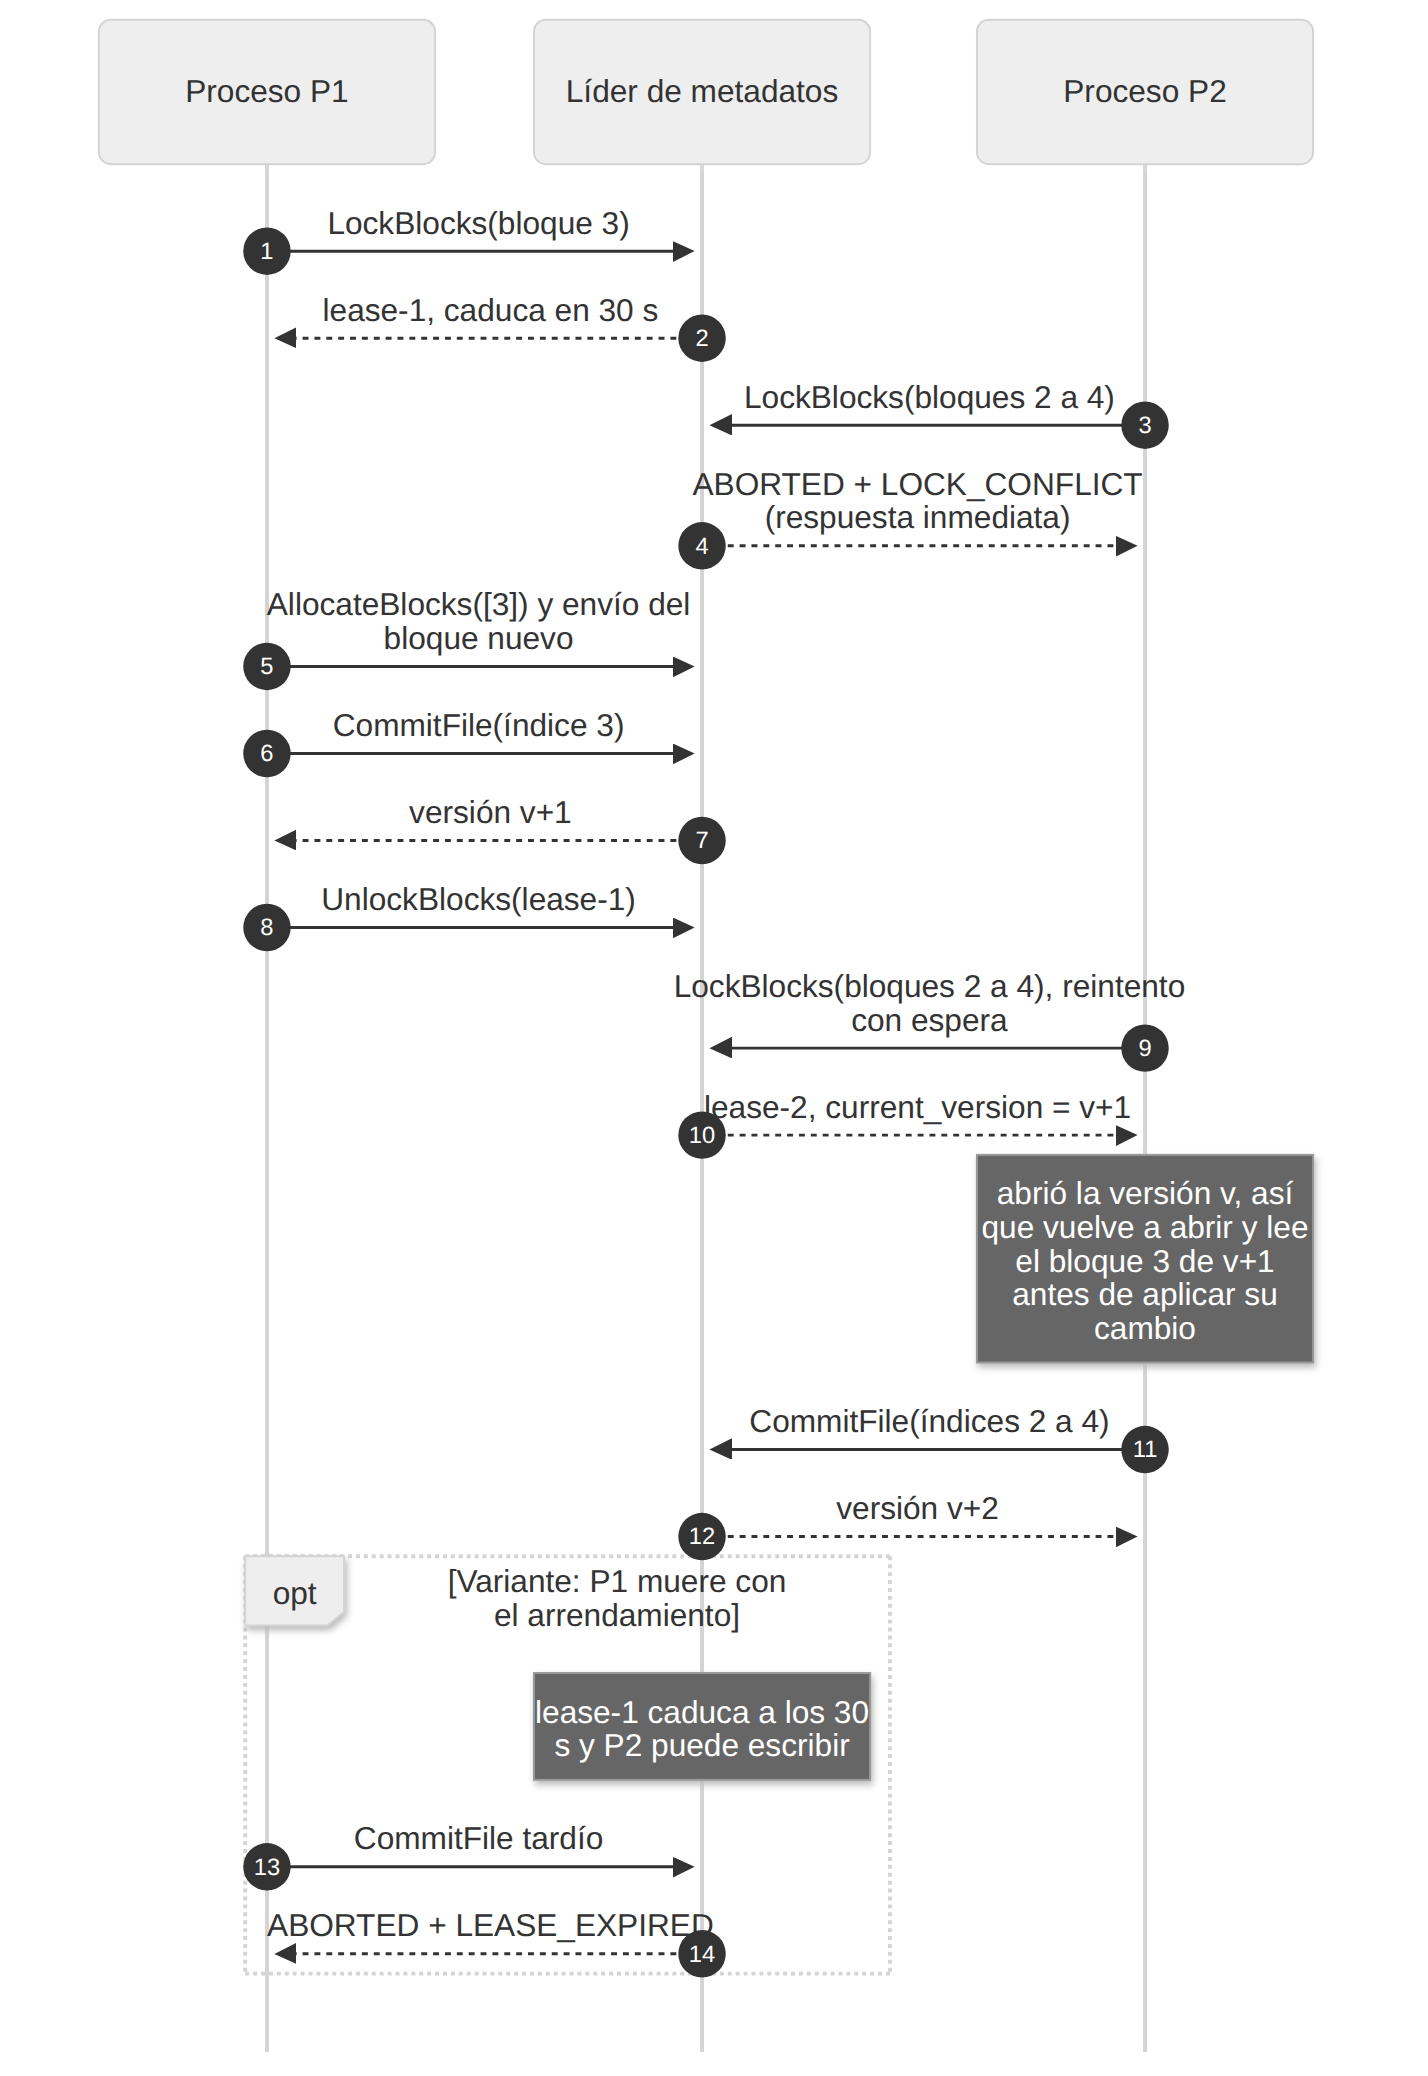
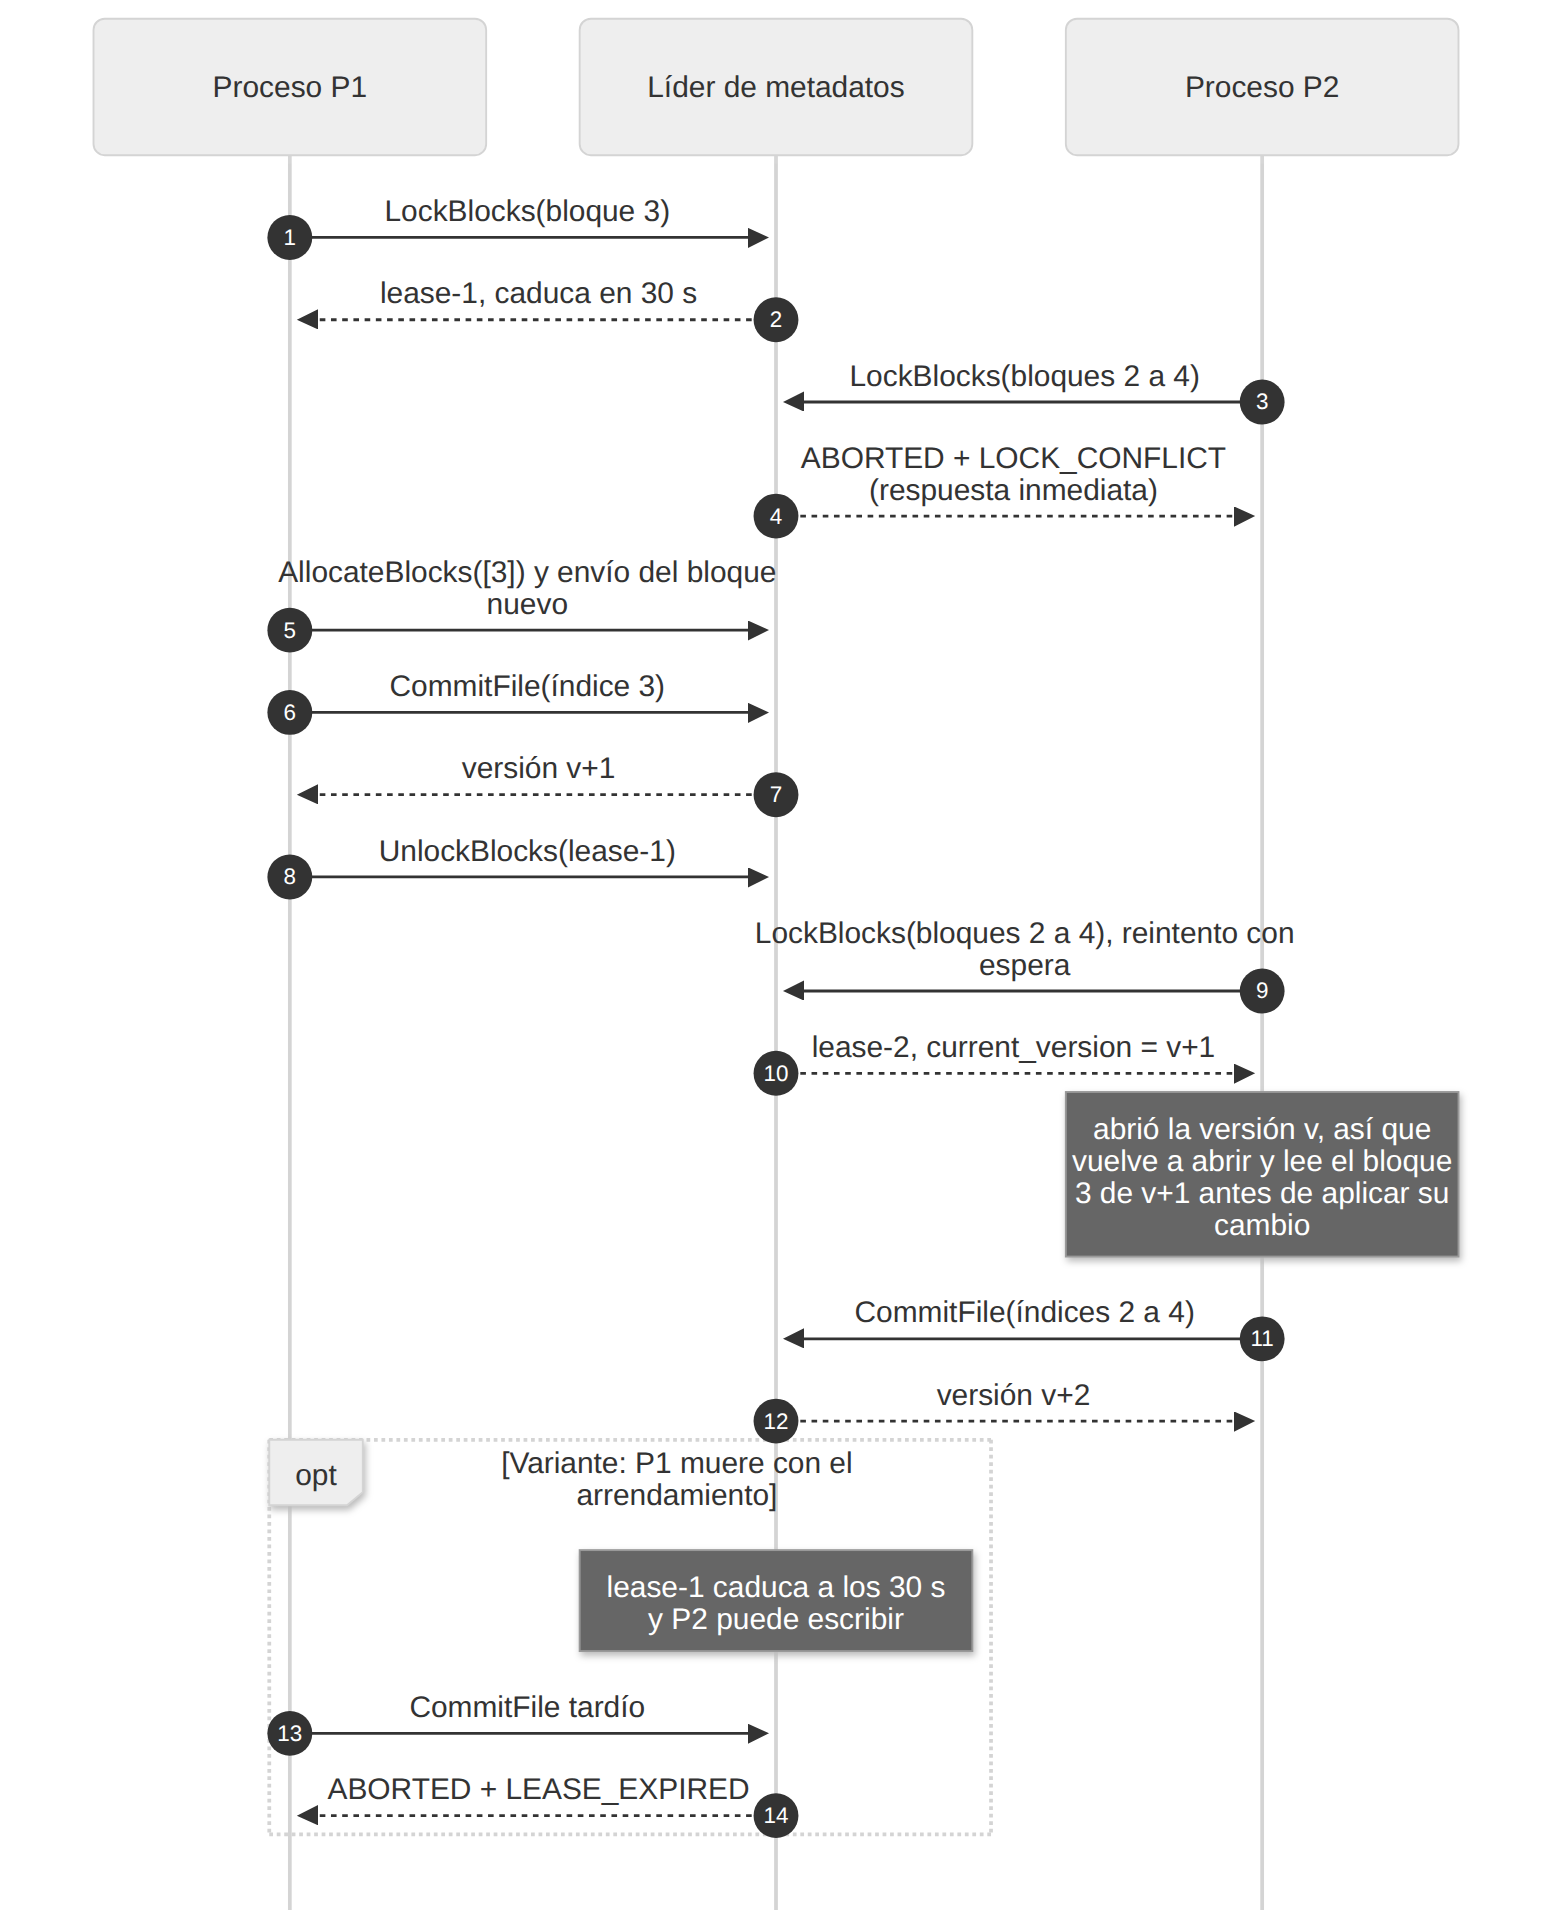
docs: reorganiza las figuras 8, 12, 13 y 15 para que quepan
Superaban la proporción alto/ancho de 1,38 que cabe en una página
carta (1,47, 1,91, 1,54 y 1,45). Las secuencias ensanchan sus columnas
y las de estados llevan el texto de las notas dentro del estado. Ahora
miden 1,21, 1,25, 1,34 y 1,23, con el mismo contenido.

diff --git a/docs/diagramas/README.md b/docs/diagramas/README.md
@@ -75,7 +75,14 @@ espacio en blanco. Valores actuales: `1100,925` para la 3 y `1150,560` para la 4
   ejemplo, una clave foránea en un diagrama ER) puede quitarse para que la figura quepa.
 - Invertir el sentido de una relación sin flecha (`A --- B` frente a `B --- A`) cambia la fila en la
   que se dibuja cada nodo.
-- Las notas largas en diagramas de secuencia se cortan por los lados: hay que acortarlas o hacer que
-  abarquen dos participantes.
+- Las notas largas en diagramas de secuencia se cortan por los lados: hay que acortarlas, partirlas con
+  `<br/>` o hacer que abarquen dos participantes. Una nota que abarca dos participantes no se parte sola
+  en líneas, así que dentro de un `opt` o un `alt` estrecho se corta igual (Figura 15).
+- En un diagrama de secuencia con mensajes largos, la directiva `%%{init: {"sequence": {"width": 210}}}%%`
+  al principio del `.mmd` ensancha las columnas: los mensajes se parten en menos líneas y la figura
+  queda más baja (Figuras 8 y 15).
+- Las notas (`note right of`) de un diagrama de estados alargan mucho la figura y dejan huecos. El texto
+  cabe mejor dentro del propio estado, con líneas `Estado : texto` (Figuras 12 y 13). `direction LR`
+  no sirve: con muchas transiciones la figura sale tan ancha que la letra queda ilegible.
 - **No se entregan SVG:** `mermaid-cli` escribe el texto dentro de `foreignObject`, que Word no muestra.
 - El motor de disposición ELK no viene incluido en `mermaid-cli`: `layout: elk` se ignora sin avisar.
